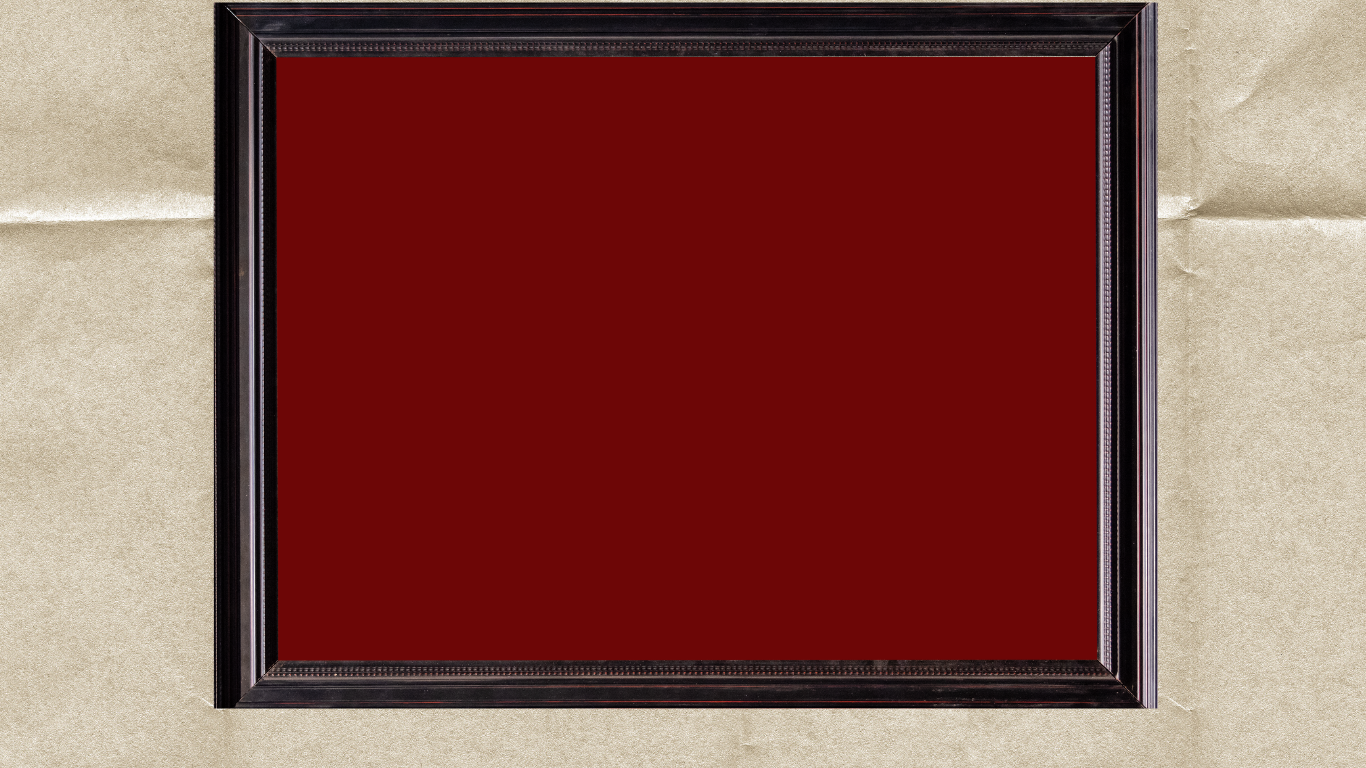
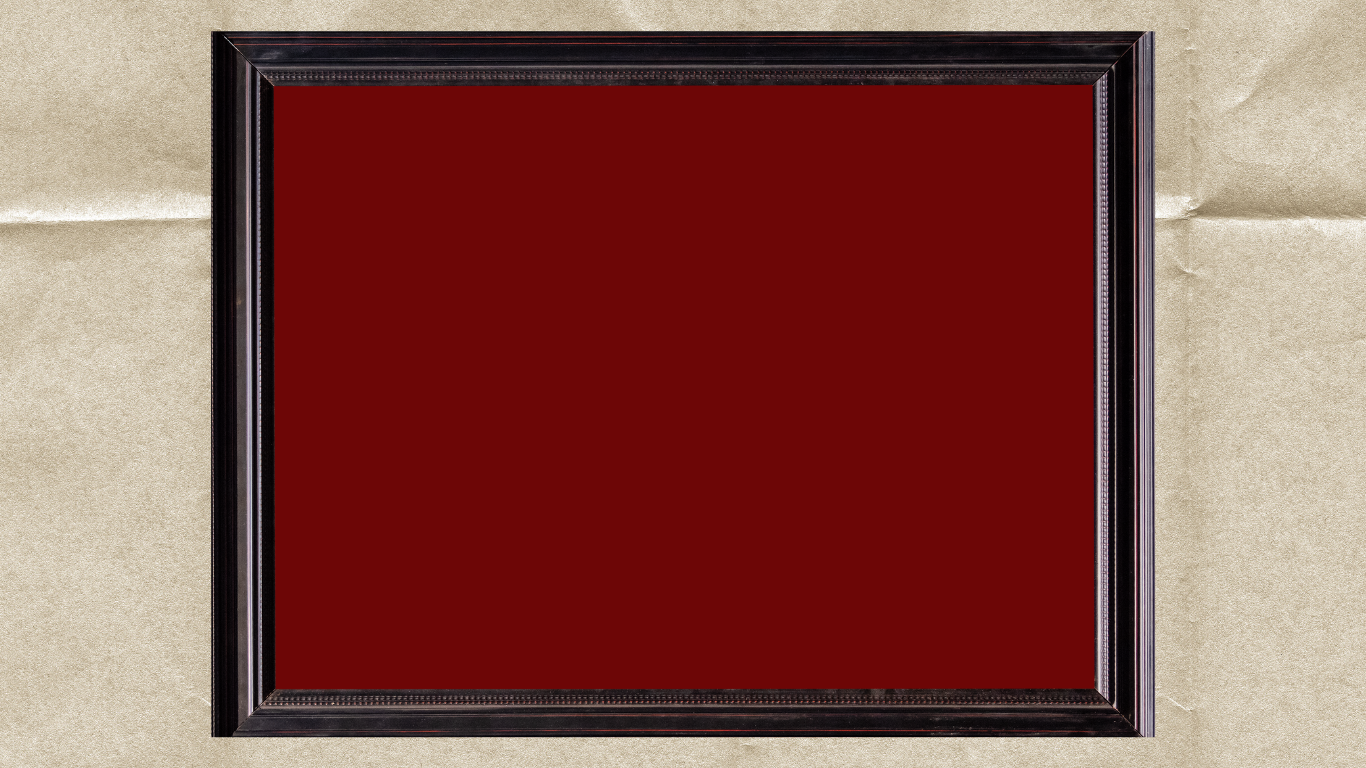
center photos in frames 3&4, shrink photos and bars 10%

Changed region(s): [[0.1537, 0.0, 0.8609, 0.9688]]

diff --git a/app.js b/app.js
@@ -9,46 +9,48 @@ const photos = { 1: null, 2: null }; // ImageBitmap after loading
 /* ── Frame layout data (positions as % of 1366×768 container)
       Each entry: { photos: [{l,t,w,h}, ...], poem: {l,t,w,align} }
       l/t/w/h are 0–100 percentages of the container dimension      */
-/* Photo height as % of container = w * (1366/768)
-   w=16.4 → h=29.2%   w=15.8 → h=28.1%
+/* Photo width reduced 10% from original estimates.
+   Photo height as % of container = w * (1366/768)
+   w=14.8 → h=26.3%   w=14.2 → h=25.3%
+   All photos horizontally centered (l = 50 - w/2).
    2-photo stack centered in mat (y: 5%–95%):
      t1 = 5 + (90 - 2*h) / 2,  t2 = t1 + h                  */
 const FRAMES = {
   1: {
     // Dark red frame (frame1.png)
-    photos1: [{ l: 41.8, t: 35.4, w: 16.4 }],
+    photos1: [{ l: 42.6, t: 36.9, w: 14.8 }],
     photos2: [
-      { l: 41.8, t: 20.8, w: 16.4 },
-      { l: 41.8, t: 50.0, w: 16.4 }
+      { l: 42.6, t: 23.7, w: 14.8 },
+      { l: 42.6, t: 50.0, w: 14.8 }
     ],
     poem: { l: 20, t: 82.5, w: 60, align: 'center' }
   },
   2: {
     // Plaid / doily frame (frame2.png)
-    photos1: [{ l: 41.8, t: 35.4, w: 16.4 }],
+    photos1: [{ l: 42.6, t: 36.9, w: 14.8 }],
     photos2: [
-      { l: 41.8, t: 20.8, w: 16.4 },
-      { l: 41.8, t: 50.0, w: 16.4 }
+      { l: 42.6, t: 23.7, w: 14.8 },
+      { l: 42.6, t: 50.0, w: 14.8 }
     ],
     poem: { l: 18, t: 83.5, w: 64, align: 'center' }
   },
   3: {
-    // Pink stripe + stars frame (frame3.png)
-    photos1: [{ l: 24.0, t: 35.9, w: 15.8 }],
+    // Pink stripe + stars frame (frame3.png) — centered
+    photos1: [{ l: 42.9, t: 37.4, w: 14.2 }],
     photos2: [
-      { l: 24.0, t: 21.9, w: 15.8 },
-      { l: 24.0, t: 50.0, w: 15.8 }
+      { l: 42.9, t: 24.7, w: 14.2 },
+      { l: 42.9, t: 50.0, w: 14.2 }
     ],
-    poem: { l: 59.0, t: 38.0, w: 32, align: 'left' }
+    poem: { l: 20, t: 82.0, w: 60, align: 'center' }
   },
   4: {
-    // Green polka dot frame (frame4.png)
-    photos1: [{ l: 33.0, t: 35.9, w: 15.8 }],
+    // Green polka dot frame (frame4.png) — centered
+    photos1: [{ l: 42.9, t: 37.4, w: 14.2 }],
     photos2: [
-      { l: 33.0, t: 21.9, w: 15.8 },
-      { l: 33.0, t: 50.0, w: 15.8 }
+      { l: 42.9, t: 24.7, w: 14.2 },
+      { l: 42.9, t: 50.0, w: 14.2 }
     ],
-    poem: { l: 60.0, t: 18.0, w: 34, align: 'left' }
+    poem: { l: 20, t: 82.0, w: 60, align: 'center' }
   }
 };
 
@@ -143,8 +145,8 @@ function applyVintageFilter(canvas) {
 
   ctx.putImageData(imageData, 0, 0);
 
-  // Black film bars top & bottom (~7% each)
-  const bar = Math.round(height * 0.07);
+  // Black film bars top & bottom (~6% each, 10% smaller than original)
+  const bar = Math.round(height * 0.063);
   ctx.fillStyle = '#000';
   ctx.fillRect(0, 0, width, bar);
   ctx.fillRect(0, height - bar, width, bar);

diff --git a/style.css b/style.css
@@ -39,8 +39,8 @@ html, body {
 /* "enter" button centered over the booth door curtain area */
 .enter-btn {
   position: absolute;
-  left: 33%;
-  top: 52%;
+  left: 41%;
+  top: 49%;
   transform: translate(-50%, -50%);
   background: transparent;
   border: none;
